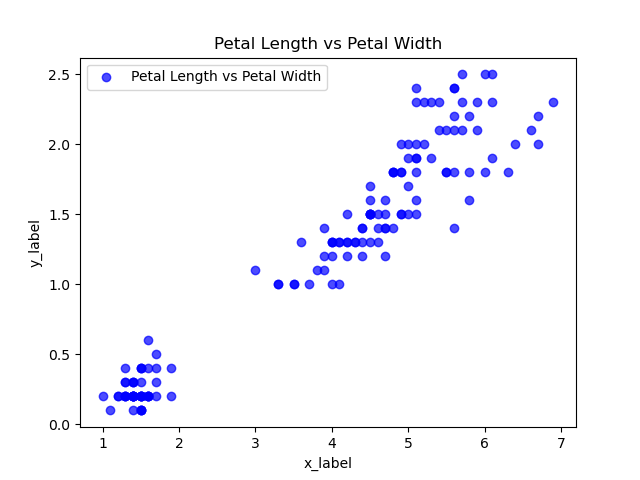
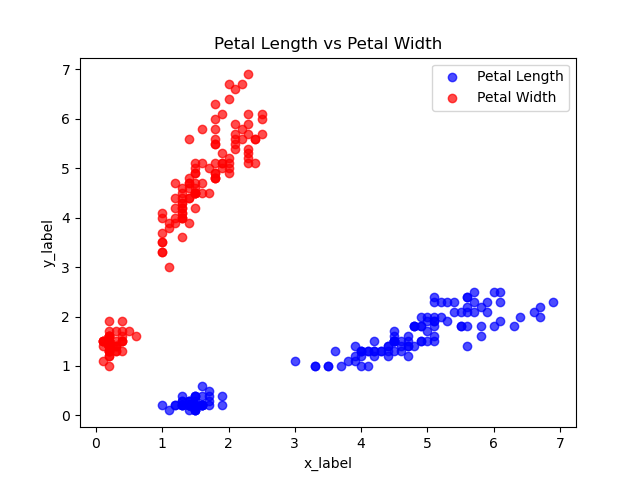
fixed scatter, plot has two colors now

diff --git a/hist_variables.py b/hist_variables.py
@@ -35,7 +35,8 @@ def hist_plot(column, name_variable):
 def scatter_plot(variable_one, variable_two, x_label, y_label, color_one='blue'):
     # Plotting the data, scatter plot on each pair of variables
     # https://matplotlib.org/stable/api/_as_gen/matplotlib.pyplot.scatter.html
-    plt.scatter(variable_one, variable_two , c=color_one, alpha=0.7, label=f'{x_label} vs {y_label}')
+    plt.scatter(variable_one, variable_two, c=color_one, alpha=0.7, label=f'{x_label}')
+    plt.scatter(variable_two, variable_one, c='r', alpha=0.7, label=f'{y_label}')
         # Saving the plot to a folder
     if not os.path.exists('scatter_plots'):
         os.makedirs('scatter_plots')  # Create the folder if it doesn't exist
@@ -52,6 +53,7 @@ def scatter_plot(variable_one, variable_two, x_label, y_label, color_one='blue')
 
     
     file_path = os.path.join('scatter_plots', f'{x_label}_vs_{y_label}.png')
+    
     
     plt.savefig(file_path, format='png')
     

diff --git a/analysis.py b/analysis.py
@@ -79,7 +79,7 @@ if __name__ == "__main__":
         
         
     # Plotting scatter plot for pairs of variables
-    scatter_plot(float_sepal_length_var, float_sepal_width_var, 'Sepal Length', 'Sepal Width', color_one='blue')
+    scatter_plot(float_sepal_length_var, float_sepal_width_var, 'Sepal Length', 'Sepal Width')
     scatter_plot(float_petal_length_var, float_petal_width_var, 'Petal Length', 'Petal Width')
 
     
